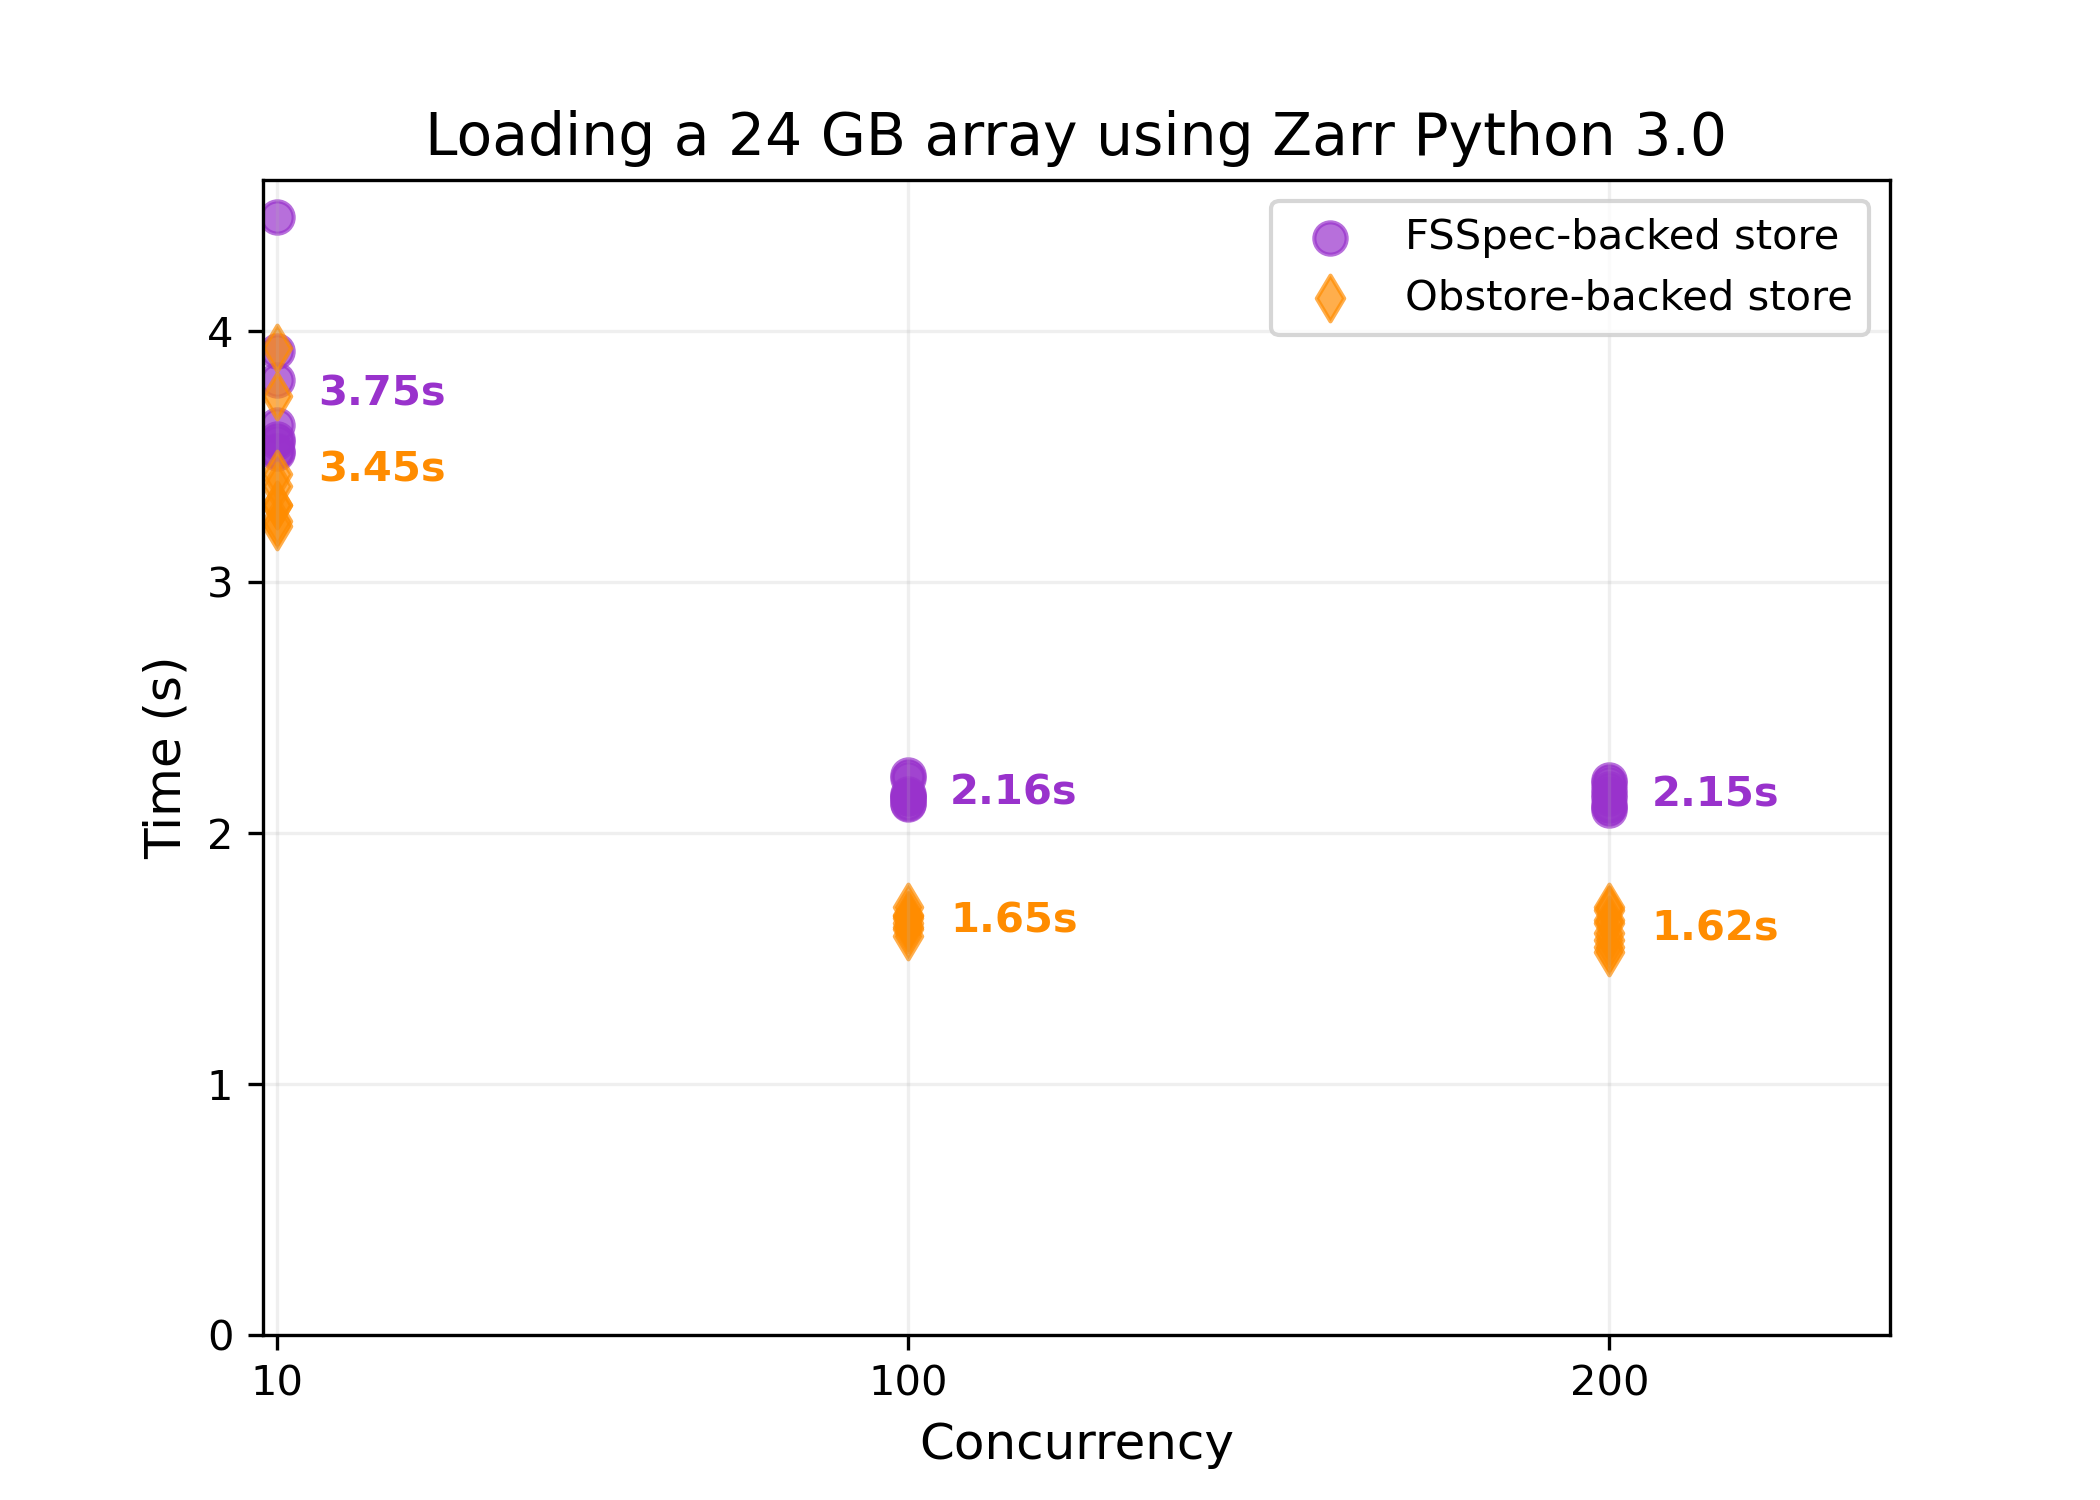
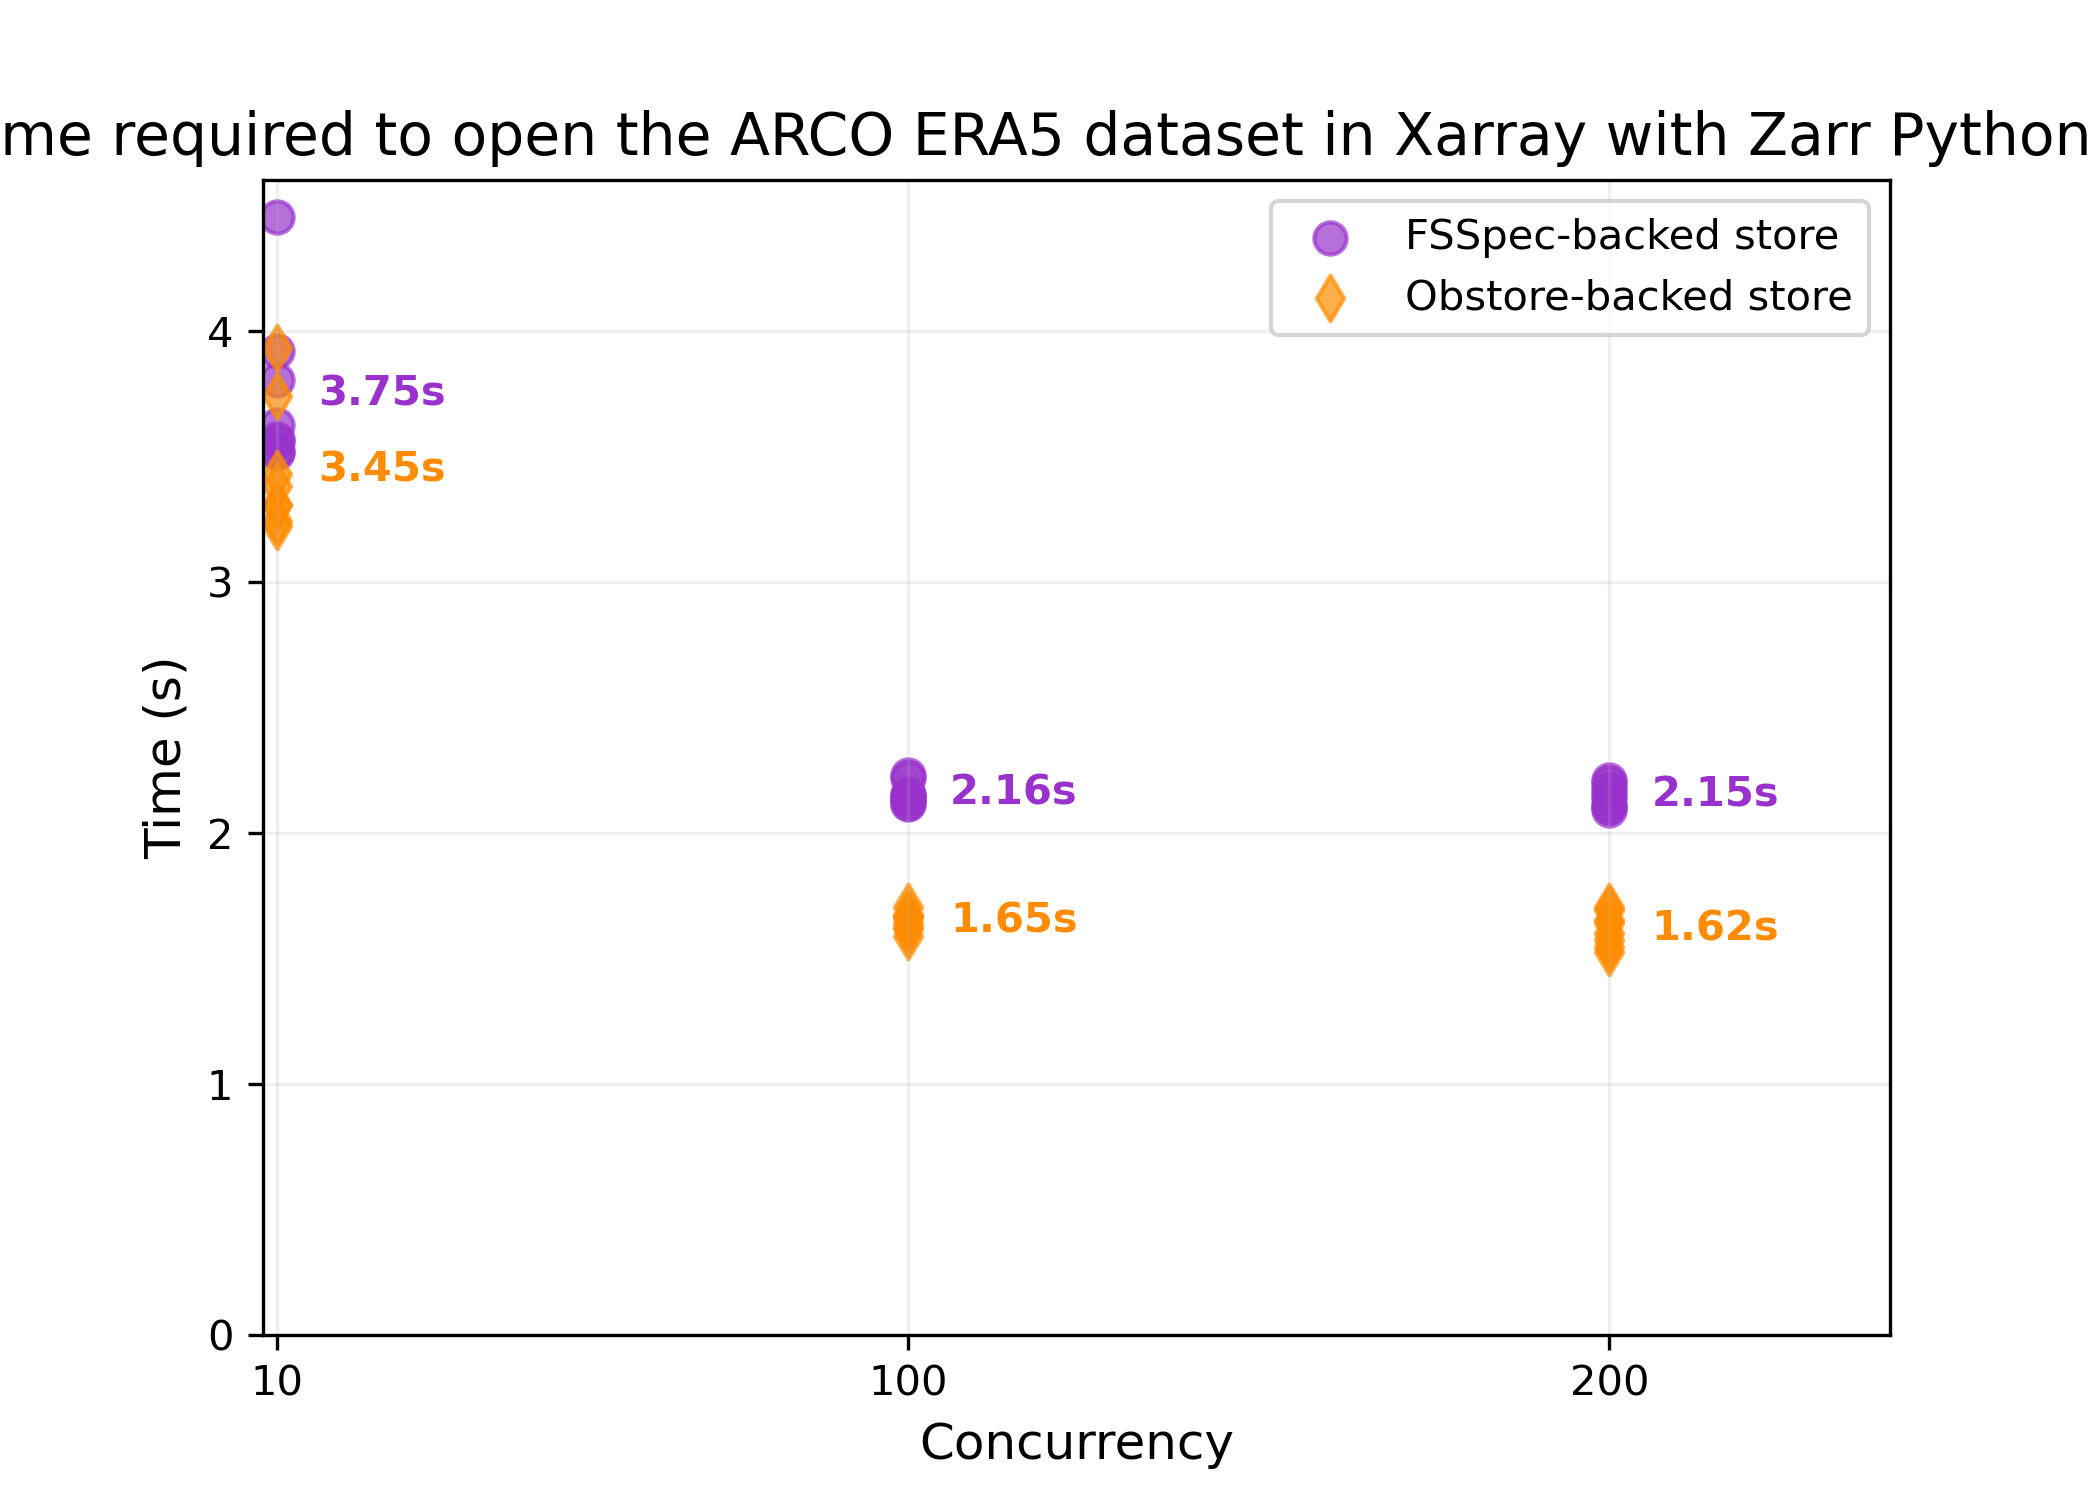
Update title

Changed region(s): [[0.0, 0.0613, 1.0, 0.1227]]

diff --git a/plot-xarray-perf-tests.py b/plot-xarray-perf-tests.py
@@ -64,7 +64,7 @@ plt.legend(
     fontsize=10,
     loc="upper right",
 )
-plt.title("Loading a 24 GB array using Zarr Python 3.0", fontsize=14)
+plt.title("Time required to open the ARCO ERA5 dataset in Xarray with Zarr Python 3.0", fontsize=14)
 
 # Show the concurrency values on x-axis
 plt.xticks(data["concurrency"].unique())
